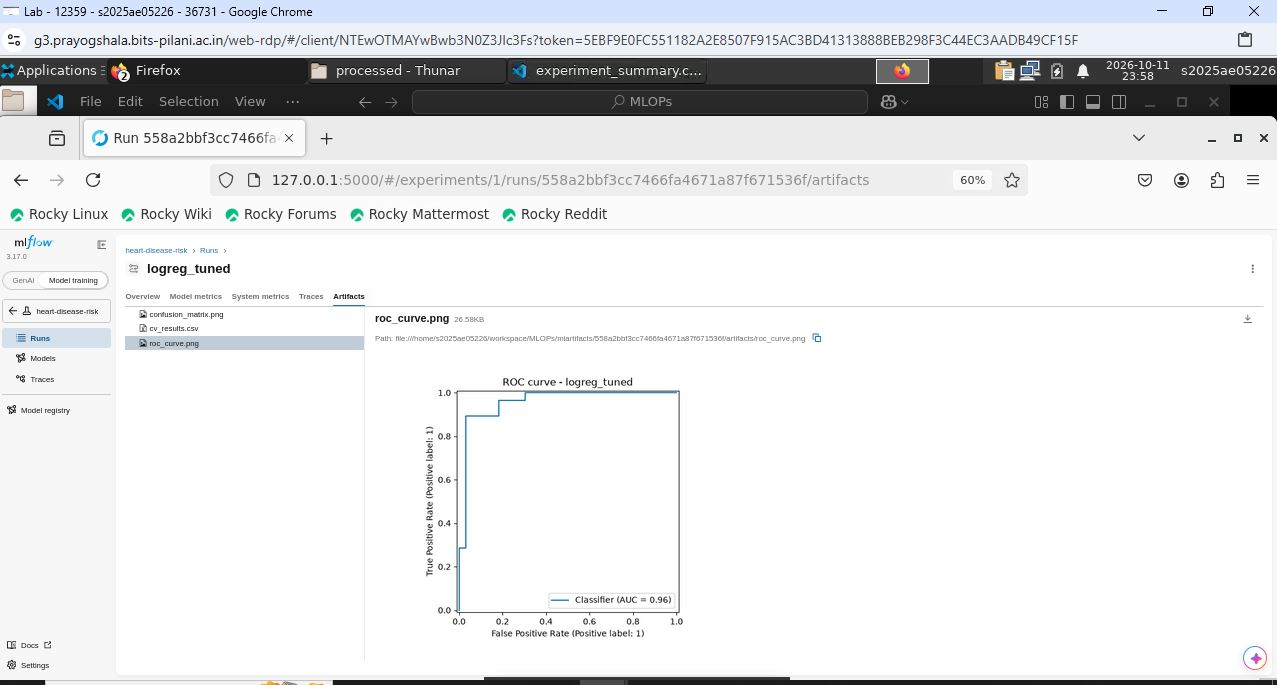
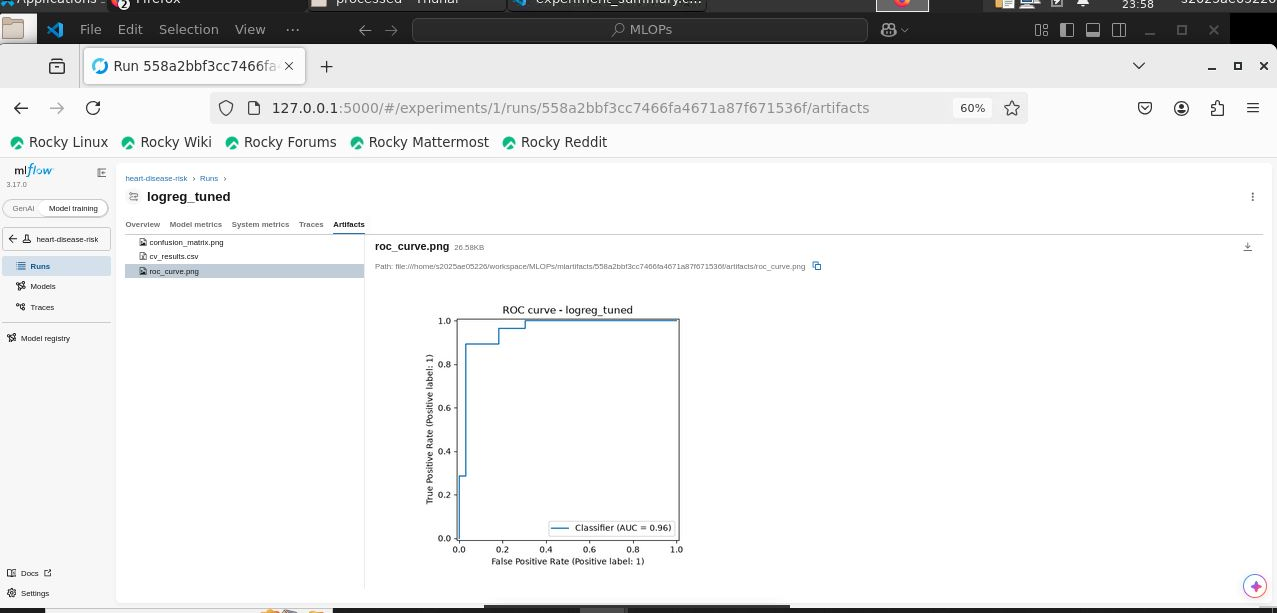
UPdated Images

diff --git a/scripts/build_report.py b/scripts/build_report.py
@@ -6,6 +6,7 @@ Output:  report/MLOps_Assignment1_Report.docx
 Edit the constants and the text blocks below so the report reads in your own words.
 Screenshots are embedded automatically from screenshots/ (main body + appendix).
 """
+import csv
 import json
 from datetime import date
 from pathlib import Path
@@ -65,11 +66,18 @@ FEATURE_TABLE = [
     ("thal", "Thalassemia: 3 normal, 6 fixed, 7 reversible defect", "category"),
 ]
 
-RESULTS_TABLE = [
-    ("logreg_baseline", "0.907", "0.766", "0.958", "0.929", "0.869"),
-    ("logreg_tuned (selected)", "0.908", "0.828", "0.958", "0.929", "0.869"),
-    ("rf_baseline", "0.894", "0.783", "0.945", "0.964", "0.869"),
-    ("rf_tuned", "0.902", "0.764", "0.955", "0.929", "0.885"),
+METRIC_HEADER = ["Run", "Accuracy", "Precision", "Recall", "F1", "ROC-AUC"]
+CV_TABLE = [
+    ("logreg_baseline", "0.839", "0.877", "0.766", "0.814", "0.907"),
+    ("logreg_tuned (selected)", "0.859", "0.870", "0.828", "0.844", "0.908"),
+    ("rf_baseline", "0.797", "0.783", "0.783", "0.778", "0.894"),
+    ("rf_tuned", "0.810", "0.819", "0.764", "0.784", "0.902"),
+]
+TEST_TABLE = [
+    ("logreg_baseline", "0.869", "0.812", "0.929", "0.867", "0.958"),
+    ("logreg_tuned (selected)", "0.869", "0.812", "0.929", "0.867", "0.958"),
+    ("rf_baseline", "0.869", "0.794", "0.964", "0.871", "0.945"),
+    ("rf_tuned", "0.885", "0.839", "0.929", "0.881", "0.955"),
 ]
 
 # (file, caption, width in inches) for the main body, grouped by section key.
@@ -93,6 +101,28 @@ MAIN_FIGURES = {
         ("mon_03_grafana_dashboard.png", "Grafana dashboard under generated traffic", 6.0),
         ("mon_01_prometheus_targets.png", "Prometheus scraping both API pods (2/2 up)", 5.0),
     ],
+}
+
+
+APPENDIX_CAPTIONS = {
+    "ci_01_run_summary": "GitHub Actions run summary with uploaded artifacts",
+    "ci_03_pytest_log": "Unit test step log with coverage table",
+    "ci_05_failed_log": "Log of the deliberately failed run",
+    "docker_01_build": "Docker image build",
+    "docker_03_logs": "Container request logs",
+    "docker_05_swagger_overview": "Swagger UI overview",
+    "docker_06_swagger_predict": "Swagger UI: successful prediction",
+    "docker_07_swagger_validation_error": "Swagger UI: invalid input rejected (HTTP 422)",
+    "docker_08_swagger_getHealth": "Swagger UI: health endpoint",
+    "k8s_03_swagger": "Swagger UI through the LoadBalancer address",
+    "k8s_04_pod_logs": "Per-pod request logs (kubectl logs)",
+    "k8s_05_describe": "Deployment description (replicas and probes)",
+    "mlflow_02_compare_chart": "MLflow run comparison chart",
+    "mlflow_02_compare_table": "MLflow run comparison table",
+    "mlflow_03_logreg_tuned_overview": "MLflow overview of the selected run",
+    "mlflow_06_model": "MLflow logged model",
+    "mon_02_prometheus_query": "Prometheus query of api_requests_total",
+    "mon_04_pod_logs": "API request logs from the pods",
 }
 
 
@@ -292,11 +322,24 @@ class Report:
             and f.name not in self.used)
         for i in range(0, len(remaining), 2):
             chunk = remaining[i:i + 2]
-            items = [(f, f.stem.replace("_", " ")) for f in chunk]
+            items = [(f, APPENDIX_CAPTIONS.get(f.stem, f.stem.replace("_", " "))) for f in chunk]
             if len(items) == 1:
                 self.figure(items[0][0], items[0][1], 3.1)
             else:
                 self.pair(items[0], items[1])
+
+
+def best_params(run_name):
+    """Tuned hyperparameters of a run, read from report/experiment_summary.csv."""
+    summary = ROOT / "report" / "experiment_summary.csv"
+    if not summary.exists():
+        return {}
+    with summary.open() as handle:
+        for row in csv.DictReader(handle):
+            if row.get("tags.mlflow.runName") == run_name:
+                return {key.replace("params.clf__", ""): value for key, value in row.items()
+                        if key.startswith("params.clf__") and value}
+    return {}
 
 
 def load_card():
@@ -425,6 +468,8 @@ def build():
                   3.4)
     report.figure(FIGS / "numeric_histograms.png", "Distributions of numeric features by class",
                   6.2)
+    report.figure(FIGS / "categorical_vs_target.png",
+                  "Categorical features versus the target", 6.2)
     report.figure(FIGS / "correlation_heatmap.png", "Correlation heatmap", 4.6)
     report.p("Observations:")
     report.bullets(EDA_OBSERVATIONS)
@@ -462,9 +507,11 @@ def build():
                               "min_samples_leaf in {1, 3, 5}"),
         ], widths=[1.6, 4.8])
     report.h2("5.3 Results")
-    report.table(
-        ["Run", "CV ROC-AUC", "CV recall", "Test ROC-AUC", "Test recall", "Test accuracy"],
-        RESULTS_TABLE, widths=[1.9, 0.9, 0.8, 1.0, 0.9, 0.9], bold_rows=(1,))
+    report.p("Mean 5-fold cross-validation scores on the training split:")
+    report.table(METRIC_HEADER, CV_TABLE, widths=[1.9, 0.9, 0.9, 0.9, 0.9, 0.9], bold_rows=(1,))
+    report.p("Scores on the 61-patient hold-out test split:")
+    report.table(METRIC_HEADER, TEST_TABLE, widths=[1.9, 0.9, 0.9, 0.9, 0.9, 0.9],
+                 bold_rows=(1,))
     cv = card.get("cv_mean", {})
     report.p(
         "The selected model is the tuned Logistic Regression (C = 1, class_weight = balanced), "
@@ -477,6 +524,10 @@ def build():
         "holds only 61 patients, so a difference of one patient moves accuracy by 1.6 "
         "points; for that reason cross-validation is treated as the main estimate and the "
         "test results as confirmation.")
+    rf_settings = best_params("rf_tuned")
+    if rf_settings:
+        report.p("Best Random Forest settings from the grid search: "
+                 + ", ".join(f"{k} = {v}" for k, v in sorted(rf_settings.items())) + ".")
 
     # ---- 6. Experiment tracking
     report.h1("6. Experiment tracking with MLflow")
@@ -507,6 +558,15 @@ def build():
         "Clean-environment proof: the CI job installs the pinned requirements on a fresh "
         "runner and runs every step from scratch.",
     ])
+    report.p("Loading the packaged model for inference:")
+    report.code(
+        "from heart_risk.predict import predict_one\n"
+        'predict_one({"age": 55, "sex": 1, "cp": 4, "trestbps": 140, "chol": 250,\n'
+        '             "fbs": 0, "restecg": 1, "thalach": 130, "exang": 1, "oldpeak": 2.0,\n'
+        '             "slope": 2, "ca": 1, "thal": 7})')
+    clean_shot = SHOTS / "repro_01_clean_clone.png"
+    if clean_shot.exists():
+        report.figure(clean_shot, "Fresh clone: install from requirements, tests, training", 5.4)
 
     # ---- 8. CI/CD
     report.h1("8. CI/CD and automated testing")
@@ -567,6 +627,17 @@ def build():
         "(Minikube tunnel provides the external address) and a headless Service lets "
         "Prometheus discover every pod. The whole deployment is reproducible with "
         "scripts/deploy_local.sh.")
+    report.h2("10.1 Accessing the deployed API")
+    report.p(
+        "The API is not hosted on a public address; it runs in the local Minikube cluster. "
+        "To reach it, keep minikube tunnel running in a second terminal, read the external "
+        "address of the service and call the endpoints:")
+    report.code(
+        "kubectl get svc heart-risk-api          # note the EXTERNAL-IP column\n"
+        "curl -s http://<EXTERNAL-IP>:8000/health\n"
+        'curl -s -X POST http://<EXTERNAL-IP>:8000/predict -H "Content-Type: application/json" \\\n'
+        "     -d @api/sample_request.json\n"
+        "# interactive documentation: http://<EXTERNAL-IP>:8000/docs")
     report.main_figures("k8s")
 
     # ---- 11. Monitoring

diff --git a/scripts/crop_lab_frame.py b/scripts/crop_lab_frame.py
@@ -1,0 +1,45 @@
+"""Find screenshots that show the lab's browser title/address bar and crop it away.
+
+python scripts/crop_lab_frame.py            # list suspicious screenshots
+python scripts/crop_lab_frame.py --apply    # crop them (originals copied to ~/screenshot_backup)
+
+The lab's remote-desktop link contains a session token, so it should not be published.
+Check the result by eye afterwards: the detection is a colour heuristic.
+"""
+import argparse
+import shutil
+from pathlib import Path
+
+from PIL import Image
+
+SHOTS = Path(__file__).resolve().parent.parent / "screenshots"
+BACKUP = Path.home() / "screenshot_backup"
+CROP_TOP = 72  # pixels: browser title bar + address bar
+
+
+def has_lab_bar(image):
+    strip = image.convert("RGB").crop((0, 0, image.width, 26))
+    red, _green, blue = strip.resize((1, 1), Image.BOX).getpixel((0, 0))
+    return 195 <= red <= 225 and blue - red >= 8
+
+
+def main():
+    parser = argparse.ArgumentParser()
+    parser.add_argument("--apply", action="store_true", help="crop the flagged screenshots")
+    args = parser.parse_args()
+    for path in sorted(SHOTS.glob("*")):
+        if path.suffix.lower() not in {".png", ".jpg", ".jpeg"}:
+            continue
+        with Image.open(path) as image:
+            image.load()
+            flagged = has_lab_bar(image)
+            cropped = image.crop((0, CROP_TOP, image.width, image.height)) if flagged else None
+        print(("CROP  " if flagged else "ok    ") + path.name)
+        if flagged and args.apply:
+            BACKUP.mkdir(parents=True, exist_ok=True)
+            shutil.copy2(path, BACKUP / path.name)
+            cropped.save(path)
+
+
+if __name__ == "__main__":
+    main()
